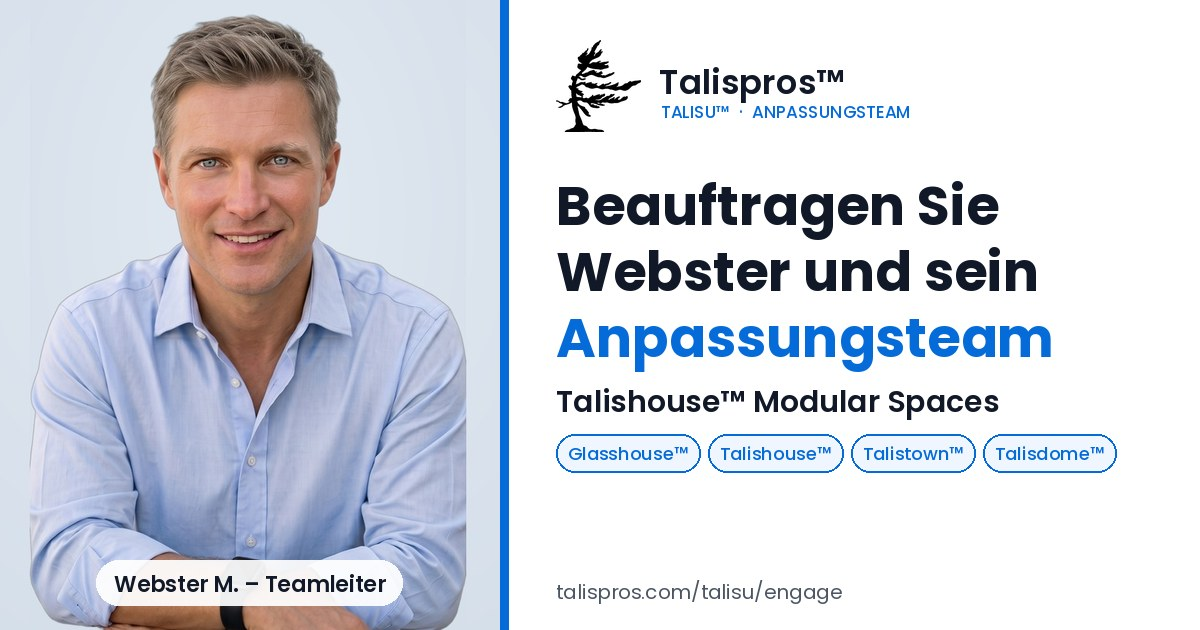
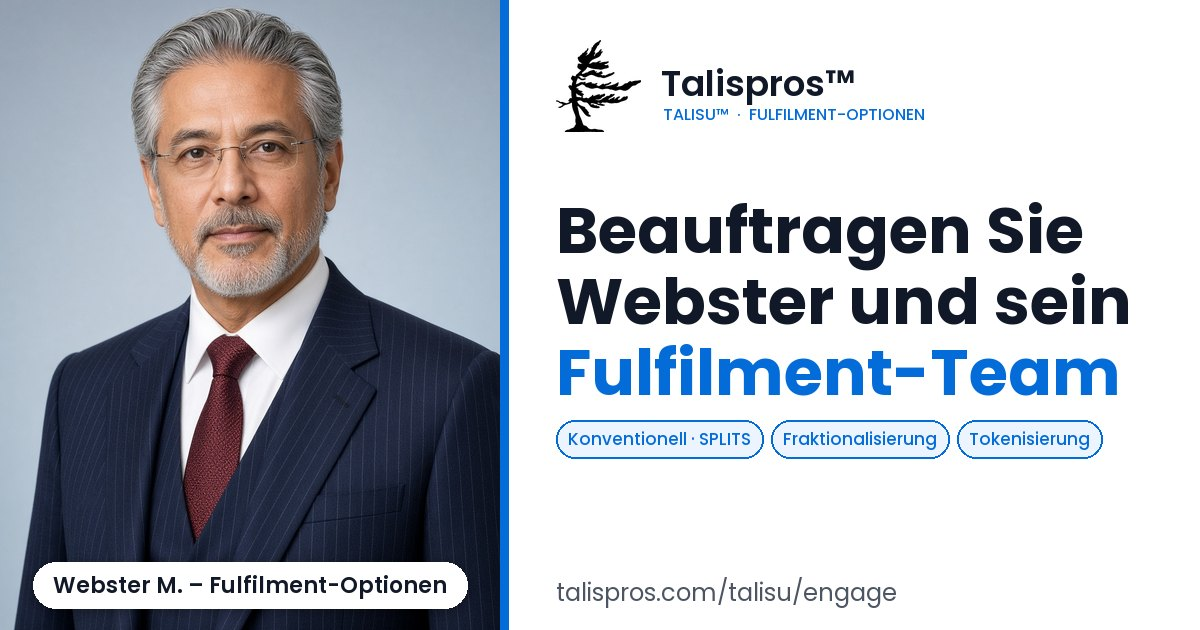
Webster: new approved portrait (webster-banker-v3.jpg) everywhere; framed as face of fulfilment options (CSFT)
- engage landing + checkout partner card, catalogue CTA avatar, flipbook page
- regenerated Webster OG cards: /og/talisu-engage-{en,de}.jpg (now built by
  scripts/og/generate.py) and /og/pages/talisu-discuss-{en,de}.jpg
- partnerFraming copy (EN/DE), Projects Analyst · Fulfilment Options role

diff --git a/lib/i18n/dictionaries/de.ts b/lib/i18n/dictionaries/de.ts
@@ -313,6 +313,8 @@ export const de: Dictionary = {
         "Leisten Sie eine Anzahlung, um Webster und sein Fulfilment-Team zu beauftragen",
       partnerHeading: "Ihr Anpassungspartner",
       partnerName: "Webster M. – Teamleiter",
+      partnerFraming:
+        "Das Gesicht und unsere Autorität für Fulfilment-Optionen: konventionell, SPLITS, Fraktionalisierung und Tokenisierung.",
       paragraphs: [
         "Modulare Container- oder Kuppelbauten erschließen „Hypermobilität“ bei struktureller Zuverlässigkeit und ermöglichen Unternehmen, die auf Kundenfrequenz angewiesen sind, physische Standorte genau dort einzusetzen, wo sie ihre Kunden finden.",
         "Vorgefertigte Module aus standardisiertem, langlebigem „Corten“-Stahl (korrosionsbeständig und mit hoher Zugfestigkeit) oder aus Fiberglas lassen sich schnell in Betrieb nehmen.",
@@ -337,9 +339,9 @@ export const de: Dictionary = {
       finalText: "Beauftragen Sie Webster und sein Fulfilment-Team, um sie Wirklichkeit werden zu lassen.",
       landingLead:
         "Jedes Projekt beginnt mit Ihrer Vision. Beauftragen Sie Webster und sein Fulfilment-Team, sie mit konventionellen, SPLITS-, Fraktionalisierungs- oder Tokenisierungs-Kapitalisierungsstrukturen Wirklichkeit werden zu lassen",
-      landingRole: "Projektanalyst",
+      landingRole: "Projektanalyst · Fulfilment-Optionen",
       landingIntro:
-        "Wählen Sie die Kapitalisierungsstruktur, die zu Ihrem Projekt passt. Webster analysiert Ihre Vision gemeinsam mit Ihnen; sein Fulfilment-Team setzt sie um.",
+        "Webster ist das Gesicht und unsere Autorität für Fulfilment-Optionen. Wählen Sie die Kapitalisierungsstruktur, die zu Ihrem Projekt passt; er analysiert Ihre Vision gemeinsam mit Ihnen, und sein Fulfilment-Team setzt sie um.",
     },
     engageCustomizing: "Anpassung:",
     engageCataloguePage: "Talishouse™ Produktkatalog, Seite {page}",
@@ -1036,7 +1038,7 @@ export const de: Dictionary = {
         "Jedes Projekt beginnt mit Ihrer Vision. Beauftragen Sie Webster und sein Fulfilment-Team – mit konventionellen, SPLITS-, Fraktionalisierungs- oder Tokenisierungsstrukturen. Die Anzahlung wird vollständig angerechnet.",
       ogImage: "/og/talisu-engage-de.jpg",
       ogImageAlt:
-        "Webster M., Teamleiter, mit dem Talispros™-Baumlogo: Beauftragen Sie Webster und sein Fulfilment-Team für Ihre Projektvision",
+        "Webster M., Projektanalyst für Fulfilment-Optionen, mit dem Talispros™-Baumlogo: Beauftragen Sie Webster und sein Fulfilment-Team für Ihre Projektvision",
     },
   },
 };

diff --git a/lib/talisu/content.ts b/lib/talisu/content.ts
@@ -261,7 +261,10 @@ export const TALISU_ENGAGE = {
   headline: "Send a Down Payment to engage Webster and his Fulfilment Team",
   partnerHeading: "Your Customization Partner",
   partnerName: "Webster M. — Team Leader",
-  partnerImage: "/talisu/webster-team-leader-v2.jpg",
+  partnerImage: "/talisu/webster-banker-v3.jpg",
+  /** Webster is the face of, and authority on, the CSFT fulfilment options. */
+  partnerFraming:
+    "The face of, and our authority on, fulfilment options: Conventional, SPLITS, Fractionalization and Tokenization.",
   partnerImageAlt: "Webster M.",
   paragraphs: [
     'Modular container or dome structures unlock "hyper-mobility" with structural reliability, allowing traffic-reliant businesses to deploy physical locations exactly where they find their customers.',
@@ -289,9 +292,9 @@ export const TALISU_ENGAGE = {
   /** Landing (Ralf, Oct 18): one line on top, CSFT buttons, Webster as projects analyst. */
   landingLead:
     "Every project starts with your vision. Engage Webster and his Fulfilment Team to bring it to life utilizing Conventional, SPLITS, Fractionalization, or Tokenization capitalization structures",
-  landingRole: "Projects Analyst",
+  landingRole: "Projects Analyst · Fulfilment Options",
   landingIntro:
-    "Choose the capitalization structure that fits your project. Webster analyzes your vision with you; his Fulfilment Team brings it to life.",
+    "Webster is the face of, and our authority on, fulfilment options. Choose the capitalization structure that fits your project; he analyzes your vision with you and his Fulfilment Team brings it to life.",
   samcartUrl: "https://talispros.mysamcart.com/checkout/custom",
 } as const;
 

diff --git a/app/talisu/engage/page.tsx b/app/talisu/engage/page.tsx
@@ -73,8 +73,8 @@ export default async function TalisUEngagePage({
         lead={TALISU_ENGAGE.landingLead}
         imageSrc={TALISU_ENGAGE.partnerImage}
         imageAlt={TALISU_ENGAGE.partnerImageAlt}
-        imageWidth={800}
-        imageHeight={800}
+        imageWidth={864}
+        imageHeight={1152}
         partnerName={TALISU_ENGAGE.partnerName.split(/ [—–-] /)[0] ?? "Webster M."}
         partnerRole={TALISU_ENGAGE.landingRole}
         ctaLabel={TALISU_ENGAGE.ctaLabel}
@@ -123,8 +123,8 @@ export default async function TalisUEngagePage({
             <Image
               src={TALISU_ENGAGE.partnerImage}
               alt={TALISU_ENGAGE.partnerImageAlt}
-              width={800}
-              height={800}
+              width={864}
+              height={1152}
               className="h-auto w-full max-w-[220px] rounded-xl object-cover shadow-sm"
               sizes="220px"
               priority
@@ -135,6 +135,9 @@ export default async function TalisUEngagePage({
           </h2>
           <p className="mt-3 text-sm font-medium text-neutral-950">
             {TALISU_ENGAGE.partnerName}
+          </p>
+          <p className="mt-1 text-sm text-[#046BD9]" data-testid="engage-partner-framing">
+            {TALISU_ENGAGE.partnerFraming}
           </p>
           <div className="mt-3 space-y-3 text-sm text-neutral-700">
             {TALISU_ENGAGE.paragraphs.map((paragraph) => (

diff --git a/__tests__/talisu-register-copy.test.ts b/__tests__/talisu-register-copy.test.ts
@@ -44,7 +44,7 @@ describe("TalisU Register → Product (Webster) copy", () => {
   it("introduces Webster as the customization partner", () => {
     expect(TALISU_ENGAGE.partnerHeading).toBe("Your Customization Partner");
     expect(TALISU_ENGAGE.partnerName).toBe("Webster M. — Team Leader");
-    expect(TALISU_ENGAGE.partnerImage).toBe("/talisu/webster-team-leader-v2.jpg");
+    expect(TALISU_ENGAGE.partnerImage).toBe("/talisu/webster-banker-v3.jpg");
     expect(TALISU_ENGAGE.paragraphs).toEqual([
       'Modular container or dome structures unlock "hyper-mobility" with structural reliability, allowing traffic-reliant businesses to deploy physical locations exactly where they find their customers.',
       "Built from standardized, durable “Corten” steel (corrosion resistant with high tensile strength) or fibreglass, prefabricated modules can be operationalized quickly.",

diff --git a/lib/i18n/dictionaries/en.ts b/lib/i18n/dictionaries/en.ts
@@ -815,7 +815,7 @@ export const en = {
         "Every project starts with your vision. Engage Webster and his Fulfilment Team using Conventional, SPLITS, Fractionalization or Tokenization structures. Your down payment is credited in full.",
       ogImage: "/og/talisu-engage-en.jpg",
       ogImageAlt:
-        "Webster M., Team Leader, with the Talispros™ tree logo: Engage Webster and his Fulfilment Team to bring your project vision to life",
+        "Webster M., Projects Analyst for fulfilment options, with the Talispros™ tree logo: Engage Webster and his Fulfilment Team to bring your project vision to life",
     },
   },
 } as const;

diff --git a/components/talispros/WorkingPageCtaLink.tsx b/components/talispros/WorkingPageCtaLink.tsx
@@ -2,7 +2,7 @@ import Link from "next/link";
 
 /** Team Leader avatars for working-page CTAs (Aisha → Register, Webster → Plan). */
 export const AISHA_AVATAR_SRC = "/images/mapsites/aisha-c.webp";
-export const WEBSTER_AVATAR_SRC = "/talisu/webster-team-leader-v2.jpg";
+export const WEBSTER_AVATAR_SRC = "/talisu/webster-banker-v3.jpg";
 
 /**
  * Pill link with a round Team Leader photo, used on the beige working pages:

diff --git a/components/product-flipbook/WebsterCataloguePage.tsx b/components/product-flipbook/WebsterCataloguePage.tsx
@@ -33,6 +33,7 @@ export default function WebsterCataloguePage() {
         <h2>{engage.partnerHeading}</h2>
         <p className="product-flipbook__partner-name">{engage.partnerName}</p>
         <div className="product-flipbook__partner-body">
+          <p>{engage.partnerFraming}</p>
           {engage.paragraphs.map((paragraph) => (
             <p key={paragraph}>{paragraph}</p>
           ))}

diff --git a/scripts/og/generate.py b/scripts/og/generate.py
@@ -132,6 +132,16 @@ def main():
                     "alt": "Talispros™ tree logo: Talispros™ Admin console"},
              "de": {"title": "Talispros™ Admin", "description": "Interne Talispros™ Admin-Werkzeuge. Anmeldung erforderlich.",
                     "alt": "Talispros™ Baumlogo: Talispros™ Admin-Konsole"}}
+    # Dedicated /talisu/engage share card (Webster, fulfilment options), served
+    # from /og/talisu-engage-<lang>.jpg via meta.talisuEngage.
+    if not only or "talisu-engage" in only:
+        webster = next(p["photo"] for p in P if p["route"] == "/talisu/engage")
+        card("en", "TALISU™  ·  FULFILMENT OPTIONS", ["Engage Webster", "and his", "Fulfilment Team"],
+             ["Conventional · SPLITS", "Fractionalization", "Tokenization"], "talispros.com/talisu/engage",
+             webster, os.path.join(PUB, "og", "talisu-engage-en.jpg"))
+        card("de", "TALISU™  ·  FULFILMENT-OPTIONEN", ["Beauftragen Sie", "Webster und sein", "Fulfilment-Team"],
+             ["Konventionell · SPLITS", "Fraktionalisierung", "Tokenisierung"], "talispros.com/talisu/engage",
+             webster, os.path.join(PUB, "og", "talisu-engage-de.jpg"))
     if not only or "admin" in only:
         card("en", "TALISPROS™  ·  ADMIN CONSOLE", ["Talispros™", "Admin"], ["Mapsites", "Talisbooks™", "Agents"],
              "Internal tools · sign in required", None, os.path.join(OUT, "admin-en.jpg"), panel_bg=NAVY)

diff --git a/scripts/og/pages_src.py b/scripts/og/pages_src.py
@@ -3,7 +3,7 @@
 lib/seo/pages.json and render public/og/pages/<slug>-<locale>.jpg."""
 
 AISHA = ("images/mapsites/aisha-c.webp", 0.5, {"en": "Aisha C. — Team Leader", "de": "Aisha C. – Teamleiterin"}, "Aisha C., Team Leader")
-WEBSTER = ("talisu/webster-team-leader-v2.jpg", 0.5, {"en": "Webster M. — Team Leader", "de": "Webster M. – Teamleiter"}, "Webster M., Team Leader")
+WEBSTER = ("talisu/webster-banker-v3.jpg", 0.5, {"en": "Webster M. — Fulfilment Options", "de": "Webster M. – Fulfilment-Optionen"}, "Webster M., Projects Analyst")
 RAHUL = ("images/mapsites/lrg1-rahul.jpeg", 0.5, {"en": "Rahul — Marketing Admin", "de": "Rahul – Marketing-Admin"}, "Rahul, Marketing Admin")
 MAP = ("assets/home-demo/01-talismaps-mkts.jpg", 0.42, None, None)
 SHELF = ("assets/home-demo/02-talisbooks-bookshelf.jpg", 0.3, None, None)
